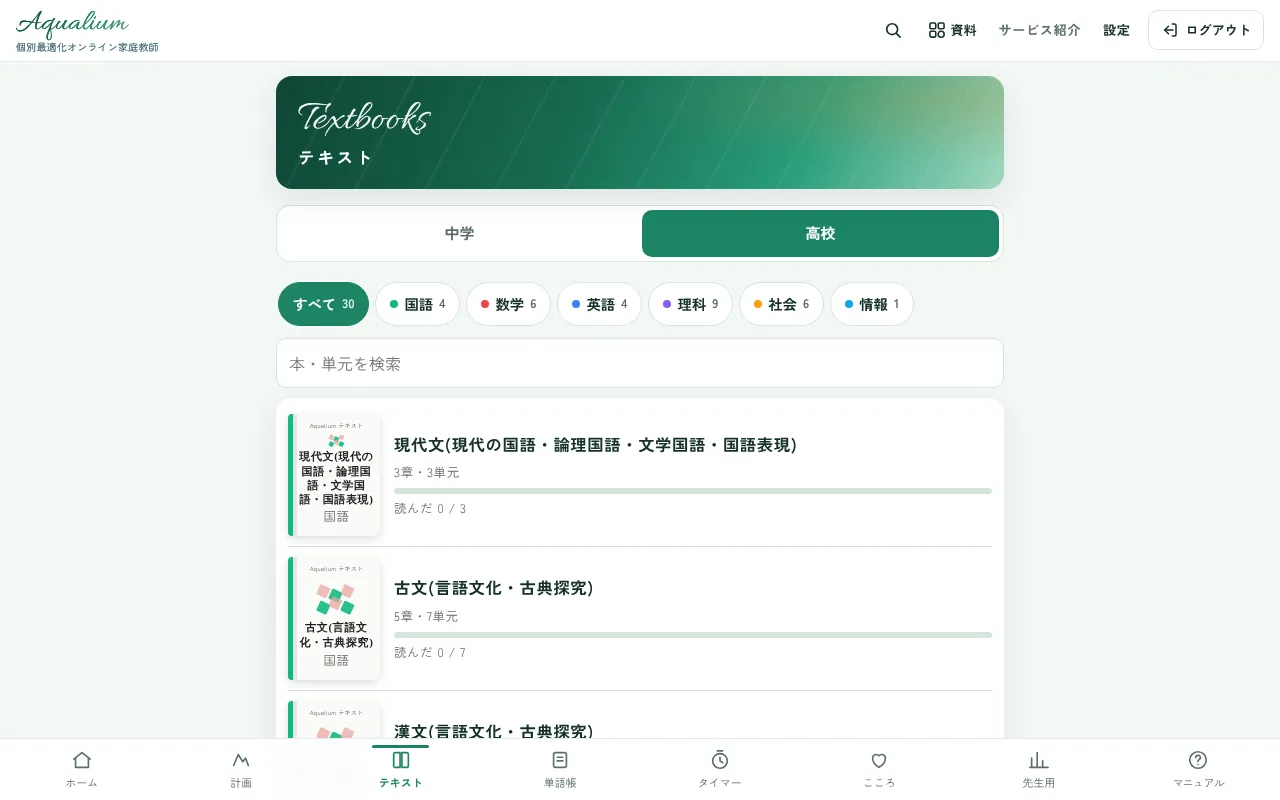
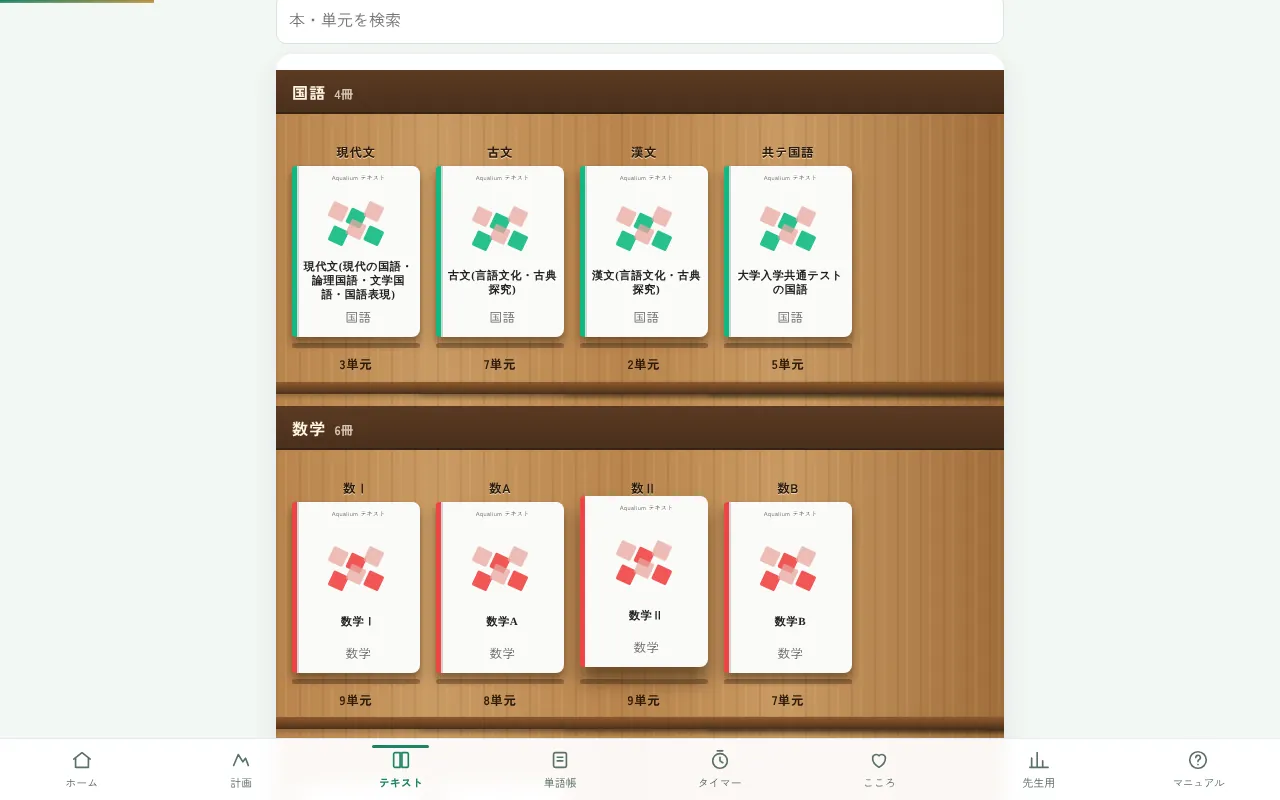
ホームページ:テキストと単語帳のハイライト写真を、木の本棚のデザインで撮り直し
Claude-Session: https://claude.ai/code/session_01LBACWHU1zm5FViu8vPc4HC

diff --git a/home.html b/home.html
@@ -160,13 +160,13 @@
     <li><em>一問一答</em><p><b>344</b><span>問</span></p><small>日本史147問・<br>世界史197問</small></li>
     <li><em>論述</em><p><b>48</b><span>題</span></p><small>歴史の論述<br>トレーニング</small></li>
   </ul>
-  <ul class="hl-circles" aria-label="ハイライト"><li><button type="button" class="hlc" data-hl="0" aria-label="ホーム のハイライトを見る(2枚)"><span class="hlc-ring"><img src="img/hl/home1_s.webp?v=20261109" width="160" height="160" alt="Aqualium アプリの「ホーム」画面" loading="lazy"></span><b>ホーム</b></button></li><li><button type="button" class="hlc" data-hl="1" aria-label="分析 のハイライトを見る(3枚)"><span class="hlc-ring"><img src="img/hl/ana1_s.webp?v=20261109" width="160" height="160" alt="Aqualium アプリの「分析」画面" loading="lazy"></span><b>分析</b></button></li><li><button type="button" class="hlc" data-hl="2" aria-label="テキスト のハイライトを見る(4枚)"><span class="hlc-ring"><img src="img/hl/txt3_s.webp?v=20261109" width="160" height="160" alt="Aqualium アプリの「テキスト」画面" loading="lazy"></span><b>テキスト</b></button></li><li><button type="button" class="hlc" data-hl="3" aria-label="歴史の図解 のハイライトを見る(3枚)"><span class="hlc-ring"><img src="img/hl/zk1_s.webp?v=20261109" width="160" height="160" alt="Aqualium アプリの「歴史の図解」画面" loading="lazy"></span><b>歴史の図解</b></button></li><li><button type="button" class="hlc" data-hl="4" aria-label="解説・資料 のハイライトを見る(3枚)"><span class="hlc-ring"><img src="img/hl/kit1_s.webp?v=20261109" width="160" height="160" alt="Aqualium アプリの「解説・資料」画面" loading="lazy"></span><b>解説・資料</b></button></li><li><button type="button" class="hlc" data-hl="5" aria-label="計画 のハイライトを見る(3枚)"><span class="hlc-ring"><img src="img/hl/plan1_s.webp?v=20261109" width="160" height="160" alt="Aqualium アプリの「計画」画面" loading="lazy"></span><b>計画</b></button></li><li><button type="button" class="hlc" data-hl="6" aria-label="単語帳 のハイライトを見る(3枚)"><span class="hlc-ring"><img src="img/hl/voc1_s.webp?v=20261109c" width="160" height="160" alt="Aqualium アプリの「単語帳」画面" loading="lazy"></span><b>単語帳</b></button></li><li><button type="button" class="hlc" data-hl="7" aria-label="日本史・世界史 のハイライトを見る(2枚)"><span class="hlc-ring"><img src="img/hl/his1_s.webp?v=20261109" width="160" height="160" alt="Aqualium アプリの「日本史・世界史」画面" loading="lazy"></span><b>日本史・世界史</b></button></li><li><button type="button" class="hlc" data-hl="8" aria-label="模試モード のハイライトを見る(1枚)"><span class="hlc-ring"><img src="img/hl/mock1_s.webp?v=20261109" width="160" height="160" alt="Aqualium アプリの「模試モード」画面" loading="lazy"></span><b>模試モード</b></button></li><li><button type="button" class="hlc" data-hl="9" aria-label="先生・保護者 のハイライトを見る(2枚)"><span class="hlc-ring"><img src="img/hl/tut1_s.webp?v=20261109" width="160" height="160" alt="Aqualium アプリの「先生・保護者」画面" loading="lazy"></span><b>先生・保護者</b></button></li></ul>
-  <ul class="hl-list fade"><li><button type="button" class="hl-item" data-hl="0"><img class="hl-item-img" src="img/hl/home1_s.webp?v=20261109" width="160" height="160" alt="Aqualium アプリの「ホーム」画面" loading="lazy"><span class="hl-item-n">01</span><b>ホーム</b><small>いま一番効果の高い学習を、アプリが1つだけ示します。迷ったら、ここを押すだけ。</small><em>2枚の画面を見る ▶</em></button></li><li><button type="button" class="hl-item" data-hl="1"><img class="hl-item-img" src="img/hl/ana1_s.webp?v=20261109" width="160" height="160" alt="Aqualium アプリの「分析」画面" loading="lazy"><span class="hl-item-n">02</span><b>分析</b><small>現代文・古文・漢文、日本史・世界史…。科目ごとの正答率をレーダーチャートで。1か月前の自分とも比べられます。</small><em>3枚の画面を見る ▶</em></button></li><li><button type="button" class="hl-item" data-hl="2"><img class="hl-item-img" src="img/hl/txt3_s.webp?v=20261109" width="160" height="160" alt="Aqualium アプリの「テキスト」画面" loading="lazy"><span class="hl-item-n">03</span><b>テキスト</b><small>中学から高校まで、科目ごとの教科書が本棚に並びます。全286単元に、知識ゼロから読める解説。</small><em>4枚の画面を見る ▶</em></button></li><li><button type="button" class="hl-item" data-hl="3"><img class="hl-item-img" src="img/hl/zk1_s.webp?v=20261109" width="160" height="160" alt="Aqualium アプリの「歴史の図解」画面" loading="lazy"><span class="hl-item-n">04</span><b>歴史の図解</b><small>地域ごとの流れと、世界全体をまきこむ大事件を、色ブロックで1枚に。</small><em>3枚の画面を見る ▶</em></button></li><li><button type="button" class="hl-item" data-hl="4"><img class="hl-item-img" src="img/hl/kit1_s.webp?v=20261109" width="160" height="160" alt="Aqualium アプリの「解説・資料」画面" loading="lazy"><span class="hl-item-n">05</span><b>解説・資料</b><small>答えのあとに「ほかの意味」やくわしい解説。元素の周期表と世界地図も、どのページからでも開けます。</small><em>3枚の画面を見る ▶</em></button></li><li><button type="button" class="hl-item" data-hl="5"><img class="hl-item-img" src="img/hl/plan1_s.webp?v=20261109" width="160" height="160" alt="Aqualium アプリの「計画」画面" loading="lazy"><span class="hl-item-n">06</span><b>計画</b><small>志望校と受験日から、残り日数と目標を自動で設定します。</small><em>3枚の画面を見る ▶</em></button></li><li><button type="button" class="hl-item" data-hl="6"><img class="hl-item-img" src="img/hl/voc1_s.webp?v=20261109c" width="160" height="160" alt="Aqualium アプリの「単語帳」画面" loading="lazy"><span class="hl-item-n">07</span><b>単語帳</b><small>中学英単語・Base・Plus・英熟語・早慶上理(学部別)・古文単語。苦手だけを集めた「覚える単語帳」も作れます。</small><em>3枚の画面を見る ▶</em></button></li><li><button type="button" class="hl-item" data-hl="7"><img class="hl-item-img" src="img/hl/his1_s.webp?v=20261109" width="160" height="160" alt="Aqualium アプリの「日本史・世界史」画面" loading="lazy"><span class="hl-item-n">08</span><b>日本史・世界史</b><small>時代(ヨコ)と分野(タテ)で範囲をしぼって出題。苦手な問題の聞き流しもできます。</small><em>2枚の画面を見る ▶</em></button></li><li><button type="button" class="hl-item" data-hl="8"><img class="hl-item-img" src="img/hl/mock1_s.webp?v=20261109" width="160" height="160" alt="Aqualium アプリの「模試モード」画面" loading="lazy"><span class="hl-item-n">09</span><b>模試モード</b><small>時間を計って解き、最後にまとめて採点。科目別の得点率と時間配分を分析します。</small><em>1枚の画面を見る ▶</em></button></li><li><button type="button" class="hl-item" data-hl="9"><img class="hl-item-img" src="img/hl/tut1_s.webp?v=20261109" width="160" height="160" alt="Aqualium アプリの「先生・保護者」画面" loading="lazy"><span class="hl-item-n">10</span><b>先生・保護者</b><small>苦手の原因・ミスの傾向・週のまとめを1枚に。授業や面談でそのまま使えます。</small><em>2枚の画面を見る ▶</em></button></li></ul>
+  <ul class="hl-circles" aria-label="ハイライト"><li><button type="button" class="hlc" data-hl="0" aria-label="ホーム のハイライトを見る(2枚)"><span class="hlc-ring"><img src="img/hl/home1_s.webp?v=20261109" width="160" height="160" alt="Aqualium アプリの「ホーム」画面" loading="lazy"></span><b>ホーム</b></button></li><li><button type="button" class="hlc" data-hl="1" aria-label="分析 のハイライトを見る(3枚)"><span class="hlc-ring"><img src="img/hl/ana1_s.webp?v=20261109" width="160" height="160" alt="Aqualium アプリの「分析」画面" loading="lazy"></span><b>分析</b></button></li><li><button type="button" class="hlc" data-hl="2" aria-label="テキスト のハイライトを見る(4枚)"><span class="hlc-ring"><img src="img/hl/txt3_s.webp?v=20261109" width="160" height="160" alt="Aqualium アプリの「テキスト」画面" loading="lazy"></span><b>テキスト</b></button></li><li><button type="button" class="hlc" data-hl="3" aria-label="歴史の図解 のハイライトを見る(3枚)"><span class="hlc-ring"><img src="img/hl/zk1_s.webp?v=20261109" width="160" height="160" alt="Aqualium アプリの「歴史の図解」画面" loading="lazy"></span><b>歴史の図解</b></button></li><li><button type="button" class="hlc" data-hl="4" aria-label="解説・資料 のハイライトを見る(3枚)"><span class="hlc-ring"><img src="img/hl/kit1_s.webp?v=20261109" width="160" height="160" alt="Aqualium アプリの「解説・資料」画面" loading="lazy"></span><b>解説・資料</b></button></li><li><button type="button" class="hlc" data-hl="5" aria-label="計画 のハイライトを見る(3枚)"><span class="hlc-ring"><img src="img/hl/plan1_s.webp?v=20261109" width="160" height="160" alt="Aqualium アプリの「計画」画面" loading="lazy"></span><b>計画</b></button></li><li><button type="button" class="hlc" data-hl="6" aria-label="単語帳 のハイライトを見る(3枚)"><span class="hlc-ring"><img src="img/hl/voc1_s.webp?v=20261109d" width="160" height="160" alt="Aqualium アプリの「単語帳」画面" loading="lazy"></span><b>単語帳</b></button></li><li><button type="button" class="hlc" data-hl="7" aria-label="日本史・世界史 のハイライトを見る(2枚)"><span class="hlc-ring"><img src="img/hl/his1_s.webp?v=20261109" width="160" height="160" alt="Aqualium アプリの「日本史・世界史」画面" loading="lazy"></span><b>日本史・世界史</b></button></li><li><button type="button" class="hlc" data-hl="8" aria-label="模試モード のハイライトを見る(1枚)"><span class="hlc-ring"><img src="img/hl/mock1_s.webp?v=20261109" width="160" height="160" alt="Aqualium アプリの「模試モード」画面" loading="lazy"></span><b>模試モード</b></button></li><li><button type="button" class="hlc" data-hl="9" aria-label="先生・保護者 のハイライトを見る(2枚)"><span class="hlc-ring"><img src="img/hl/tut1_s.webp?v=20261109" width="160" height="160" alt="Aqualium アプリの「先生・保護者」画面" loading="lazy"></span><b>先生・保護者</b></button></li></ul>
+  <ul class="hl-list fade"><li><button type="button" class="hl-item" data-hl="0"><img class="hl-item-img" src="img/hl/home1_s.webp?v=20261109" width="160" height="160" alt="Aqualium アプリの「ホーム」画面" loading="lazy"><span class="hl-item-n">01</span><b>ホーム</b><small>いま一番効果の高い学習を、アプリが1つだけ示します。迷ったら、ここを押すだけ。</small><em>2枚の画面を見る ▶</em></button></li><li><button type="button" class="hl-item" data-hl="1"><img class="hl-item-img" src="img/hl/ana1_s.webp?v=20261109" width="160" height="160" alt="Aqualium アプリの「分析」画面" loading="lazy"><span class="hl-item-n">02</span><b>分析</b><small>現代文・古文・漢文、日本史・世界史…。科目ごとの正答率をレーダーチャートで。1か月前の自分とも比べられます。</small><em>3枚の画面を見る ▶</em></button></li><li><button type="button" class="hl-item" data-hl="2"><img class="hl-item-img" src="img/hl/txt3_s.webp?v=20261109" width="160" height="160" alt="Aqualium アプリの「テキスト」画面" loading="lazy"><span class="hl-item-n">03</span><b>テキスト</b><small>中学から高校まで、科目ごとの教科書が本棚に並びます。全286単元に、知識ゼロから読める解説。</small><em>4枚の画面を見る ▶</em></button></li><li><button type="button" class="hl-item" data-hl="3"><img class="hl-item-img" src="img/hl/zk1_s.webp?v=20261109" width="160" height="160" alt="Aqualium アプリの「歴史の図解」画面" loading="lazy"><span class="hl-item-n">04</span><b>歴史の図解</b><small>地域ごとの流れと、世界全体をまきこむ大事件を、色ブロックで1枚に。</small><em>3枚の画面を見る ▶</em></button></li><li><button type="button" class="hl-item" data-hl="4"><img class="hl-item-img" src="img/hl/kit1_s.webp?v=20261109" width="160" height="160" alt="Aqualium アプリの「解説・資料」画面" loading="lazy"><span class="hl-item-n">05</span><b>解説・資料</b><small>答えのあとに「ほかの意味」やくわしい解説。元素の周期表と世界地図も、どのページからでも開けます。</small><em>3枚の画面を見る ▶</em></button></li><li><button type="button" class="hl-item" data-hl="5"><img class="hl-item-img" src="img/hl/plan1_s.webp?v=20261109" width="160" height="160" alt="Aqualium アプリの「計画」画面" loading="lazy"><span class="hl-item-n">06</span><b>計画</b><small>志望校と受験日から、残り日数と目標を自動で設定します。</small><em>3枚の画面を見る ▶</em></button></li><li><button type="button" class="hl-item" data-hl="6"><img class="hl-item-img" src="img/hl/voc1_s.webp?v=20261109d" width="160" height="160" alt="Aqualium アプリの「単語帳」画面" loading="lazy"><span class="hl-item-n">07</span><b>単語帳</b><small>中学英単語・Base・Plus・英熟語・早慶上理(学部別)・古文単語。苦手だけを集めた「覚える単語帳」も作れます。</small><em>3枚の画面を見る ▶</em></button></li><li><button type="button" class="hl-item" data-hl="7"><img class="hl-item-img" src="img/hl/his1_s.webp?v=20261109" width="160" height="160" alt="Aqualium アプリの「日本史・世界史」画面" loading="lazy"><span class="hl-item-n">08</span><b>日本史・世界史</b><small>時代(ヨコ)と分野(タテ)で範囲をしぼって出題。苦手な問題の聞き流しもできます。</small><em>2枚の画面を見る ▶</em></button></li><li><button type="button" class="hl-item" data-hl="8"><img class="hl-item-img" src="img/hl/mock1_s.webp?v=20261109" width="160" height="160" alt="Aqualium アプリの「模試モード」画面" loading="lazy"><span class="hl-item-n">09</span><b>模試モード</b><small>時間を計って解き、最後にまとめて採点。科目別の得点率と時間配分を分析します。</small><em>1枚の画面を見る ▶</em></button></li><li><button type="button" class="hl-item" data-hl="9"><img class="hl-item-img" src="img/hl/tut1_s.webp?v=20261109" width="160" height="160" alt="Aqualium アプリの「先生・保護者」画面" loading="lazy"><span class="hl-item-n">10</span><b>先生・保護者</b><small>苦手の原因・ミスの傾向・週のまとめを1枚に。授業や面談でそのまま使えます。</small><em>2枚の画面を見る ▶</em></button></li></ul>
   <div class="hl-cta fade">
     <p>気になる機能は見つかりましたか?<br>まずは無料体験で、<br class="sp">実際に使ってみてください。</p>
     <a href="#contact" class="btn btn-primary">無料体験を申し込む</a>
   </div>
-  <script type="application/json" id="hlData">[{"id": "home", "name": "ホーム", "slides": [{"img": "img/hl/home1.webp?v=20261109", "t": "次の一手", "d": "いま一番効果の高い学習を、アプリが1つだけ示します。迷ったら、ここを押すだけ。"}, {"img": "img/hl/home3.webp?v=20261109", "t": "診断・練習", "d": "ホームの上のタブで切りかえ。診断テストで、中学の単元までさかのぼって苦手の原因を探します。"}]}, {"id": "ana", "name": "分析", "slides": [{"img": "img/hl/ana1.webp?v=20261109", "t": "科目バランス", "d": "現代文・古文・漢文、日本史・世界史…。科目ごとの正答率をレーダーチャートで。1か月前の自分とも比べられます。"}, {"img": "img/hl/ana2.webp?v=20261109", "t": "ミスの原因", "d": "「ケアレスミス」「覚えていなかった」など、まちがえた理由を集計。いちばん多い原因と対策がわかります。"}, {"img": "img/hl/ana3.webp?v=20261109", "t": "今週のまとめ", "d": "学習日数・時間・解いた問題・正答率を、先週と比べて表示。伸びたところがひと目でわかります。"}]}, {"id": "txt", "name": "テキスト", "slides": [{"img": "img/hl/txt1.webp?v=20261109", "t": "科目ごとの本棚", "d": "中学から高校まで、科目ごとの教科書が本棚に並びます。続きからすぐ読めます。"}, {"img": "img/hl/txt2.webp?v=20261109", "t": "目次", "d": "章と単元の一覧。読んだ単元・しおり・苦手な単元に印がつきます。"}, {"img": "img/hl/txt3.webp?v=20261109", "t": "知識ゼロから読める本文", "d": "「できるようになること → イメージ → 説明」の順。全286単元に解説があります。"}, {"img": "img/hl/txt4.webp?v=20261109", "t": "黒板の例題", "d": "考え方を1手順ずつ。読み終えたら、そのまま確認問題を解けます。"}]}, {"id": "zk", "name": "歴史の図解", "slides": [{"img": "img/hl/zk1.webp?v=20261109", "t": "世界史の流れ", "d": "地域ごとの流れと、世界全体をまきこむ大事件を、色ブロックで1枚に。"}, {"img": "img/hl/zk2.webp?v=20261109", "t": "模式地図", "d": "清の直轄領・藩部・朝貢国などを、位置関係で整理します。"}, {"img": "img/hl/zk3.webp?v=20261109", "t": "因果の鎖", "d": "背景 → できごと → 結果 → その後。なぜ起きて、どうなったかがつながります。"}]}, {"id": "kit", "name": "解説・資料", "slides": [{"img": "img/hl/kit1.webp?v=20261109", "t": "もっと知る", "d": "答えたあとに、くわしい解説と、語句の「ほかの意味」・使い方を表示。1語から何倍も学べます。"}, {"img": "img/hl/kit2.webp?v=20261109", "t": "元素の周期表", "d": "どのページを開いていても、すぐに呼び出せます。元素を押すと、原子量・分類・常温での状態まで。"}, {"img": "img/hl/kit3.webp?v=20261109", "t": "国名入りの世界地図", "d": "日本中心の地図に、国名と主な都市(首都など約100)。指で拡大・移動でき、国名で探すとその国まで移動します。最小化して勉強と並べて使えます。"}]}, {"id": "plan", "name": "計画", "slides": [{"img": "img/hl/plan1.webp?v=20261109", "t": "逆算ロードマップ", "d": "志望校と受験日から、残り日数と目標を自動で設定します。"}, {"img": "img/hl/plan2.webp?v=20261109", "t": "受験日までのタイムライン", "d": "単元・英単語・古文単語・一問一答の進め方を、1本の線で見渡せます。"}, {"img": "img/hl/plan3.webp?v=20261109", "t": "単元マップ", "d": "全単元の定着度を色で表示。忘れかけている単元もすぐ見つかります。"}]}, {"id": "voc", "name": "単語帳", "slides": [{"img": "img/hl/voc1.webp?v=20261109c", "t": "単語帳を選ぶ", "d": "中学英単語・Base・Plus・英熟語・早慶上理(学部別)・古文単語。苦手だけを集めた「覚える単語帳」も作れます。"}, {"img": "img/hl/voc2.webp?v=20261109c", "t": "学び方を選ぶ", "d": "赤シート・苦手選別・聞き流し・スワイプなど、気分や場所に合わせて選べます。"}, {"img": "img/hl/voc3.webp?v=20261109c", "t": "4択テスト", "d": "テンポよく答えて、まちがえた語は自動で復習に回ります。"}]}, {"id": "his", "name": "日本史・世界史", "slides": [{"img": "img/hl/his1.webp?v=20261109", "t": "一問一答", "d": "時代(ヨコ)と分野(タテ)で範囲をしぼって出題。苦手な問題の聞き流しもできます。"}, {"img": "img/hl/his2.webp?v=20261109", "t": "論述トレーニング", "d": "答えを考えてから、模範解答のキーワードで自己採点します。"}]}, {"id": "mock", "name": "模試モード", "slides": [{"img": "img/hl/mock1.webp?v=20261109", "t": "本番形式の模試", "d": "時間を計って解き、最後にまとめて採点。科目別の得点率と時間配分を分析します。"}]}, {"id": "tut", "name": "先生・保護者", "slides": [{"img": "img/hl/tut1.webp?v=20261109", "t": "指導分析レポート", "d": "苦手の原因・ミスの傾向・週のまとめを1枚に。授業や面談でそのまま使えます。"}, {"img": "img/hl/tut2.webp?v=20261109", "t": "学習の記録", "d": "日別の解答数や科目バランスを、先生・保護者と共有できます。"}]}]</script>
+  <script type="application/json" id="hlData">[{"id": "home", "name": "ホーム", "slides": [{"img": "img/hl/home1.webp?v=20261109", "t": "次の一手", "d": "いま一番効果の高い学習を、アプリが1つだけ示します。迷ったら、ここを押すだけ。"}, {"img": "img/hl/home3.webp?v=20261109", "t": "診断・練習", "d": "ホームの上のタブで切りかえ。診断テストで、中学の単元までさかのぼって苦手の原因を探します。"}]}, {"id": "ana", "name": "分析", "slides": [{"img": "img/hl/ana1.webp?v=20261109", "t": "科目バランス", "d": "現代文・古文・漢文、日本史・世界史…。科目ごとの正答率をレーダーチャートで。1か月前の自分とも比べられます。"}, {"img": "img/hl/ana2.webp?v=20261109", "t": "ミスの原因", "d": "「ケアレスミス」「覚えていなかった」など、まちがえた理由を集計。いちばん多い原因と対策がわかります。"}, {"img": "img/hl/ana3.webp?v=20261109", "t": "今週のまとめ", "d": "学習日数・時間・解いた問題・正答率を、先週と比べて表示。伸びたところがひと目でわかります。"}]}, {"id": "txt", "name": "テキスト", "slides": [{"img": "img/hl/txt1.webp?v=20261109d", "t": "科目ごとの本棚", "d": "中学から高校まで、科目ごとの教科書が本棚に並びます。続きからすぐ読めます。"}, {"img": "img/hl/txt2.webp?v=20261109", "t": "目次", "d": "章と単元の一覧。読んだ単元・しおり・苦手な単元に印がつきます。"}, {"img": "img/hl/txt3.webp?v=20261109", "t": "知識ゼロから読める本文", "d": "「できるようになること → イメージ → 説明」の順。全286単元に解説があります。"}, {"img": "img/hl/txt4.webp?v=20261109", "t": "黒板の例題", "d": "考え方を1手順ずつ。読み終えたら、そのまま確認問題を解けます。"}]}, {"id": "zk", "name": "歴史の図解", "slides": [{"img": "img/hl/zk1.webp?v=20261109", "t": "世界史の流れ", "d": "地域ごとの流れと、世界全体をまきこむ大事件を、色ブロックで1枚に。"}, {"img": "img/hl/zk2.webp?v=20261109", "t": "模式地図", "d": "清の直轄領・藩部・朝貢国などを、位置関係で整理します。"}, {"img": "img/hl/zk3.webp?v=20261109", "t": "因果の鎖", "d": "背景 → できごと → 結果 → その後。なぜ起きて、どうなったかがつながります。"}]}, {"id": "kit", "name": "解説・資料", "slides": [{"img": "img/hl/kit1.webp?v=20261109", "t": "もっと知る", "d": "答えたあとに、くわしい解説と、語句の「ほかの意味」・使い方を表示。1語から何倍も学べます。"}, {"img": "img/hl/kit2.webp?v=20261109", "t": "元素の周期表", "d": "どのページを開いていても、すぐに呼び出せます。元素を押すと、原子量・分類・常温での状態まで。"}, {"img": "img/hl/kit3.webp?v=20261109", "t": "国名入りの世界地図", "d": "日本中心の地図に、国名と主な都市(首都など約100)。指で拡大・移動でき、国名で探すとその国まで移動します。最小化して勉強と並べて使えます。"}]}, {"id": "plan", "name": "計画", "slides": [{"img": "img/hl/plan1.webp?v=20261109", "t": "逆算ロードマップ", "d": "志望校と受験日から、残り日数と目標を自動で設定します。"}, {"img": "img/hl/plan2.webp?v=20261109", "t": "受験日までのタイムライン", "d": "単元・英単語・古文単語・一問一答の進め方を、1本の線で見渡せます。"}, {"img": "img/hl/plan3.webp?v=20261109", "t": "単元マップ", "d": "全単元の定着度を色で表示。忘れかけている単元もすぐ見つかります。"}]}, {"id": "voc", "name": "単語帳", "slides": [{"img": "img/hl/voc1.webp?v=20261109d", "t": "単語帳を選ぶ", "d": "中学英単語・Base・Plus・英熟語・早慶上理(学部別)・古文単語。苦手だけを集めた「覚える単語帳」も作れます。"}, {"img": "img/hl/voc2.webp?v=20261109c", "t": "学び方を選ぶ", "d": "赤シート・苦手選別・聞き流し・スワイプなど、気分や場所に合わせて選べます。"}, {"img": "img/hl/voc3.webp?v=20261109c", "t": "4択テスト", "d": "テンポよく答えて、まちがえた語は自動で復習に回ります。"}]}, {"id": "his", "name": "日本史・世界史", "slides": [{"img": "img/hl/his1.webp?v=20261109", "t": "一問一答", "d": "時代(ヨコ)と分野(タテ)で範囲をしぼって出題。苦手な問題の聞き流しもできます。"}, {"img": "img/hl/his2.webp?v=20261109", "t": "論述トレーニング", "d": "答えを考えてから、模範解答のキーワードで自己採点します。"}]}, {"id": "mock", "name": "模試モード", "slides": [{"img": "img/hl/mock1.webp?v=20261109", "t": "本番形式の模試", "d": "時間を計って解き、最後にまとめて採点。科目別の得点率と時間配分を分析します。"}]}, {"id": "tut", "name": "先生・保護者", "slides": [{"img": "img/hl/tut1.webp?v=20261109", "t": "指導分析レポート", "d": "苦手の原因・ミスの傾向・週のまとめを1枚に。授業や面談でそのまま使えます。"}, {"img": "img/hl/tut2.webp?v=20261109", "t": "学習の記録", "d": "日別の解答数や科目バランスを、先生・保護者と共有できます。"}]}]</script>
 </section>
 
 <!-- ========== Point ========== -->

diff --git a/sw.js b/sw.js
@@ -4,7 +4,7 @@
  *  ・対応ブラウザでは、アプリを閉じていても1時間ごとに連続記録をチェックし、
  *    学習がまだなら通知します(Periodic Background Sync)。
  */
-var CACHE = 'wps-v253';
+var CACHE = 'wps-v254';
 var FILES = [
   './', './index.html', './manual.html', './home.html', './css/style.css', './css/home.css', './js/home.js',
   './js/data/units.js', './js/data/units_extra.js', './js/data/units_more.js', './js/data/units_math.js', './js/data/units_extra2.js', './js/data/units_extra3.js', './js/data/units_adv.js', './js/data/units_hard.js', './js/data/banks_lang.js', './js/data/banks_sci_soc.js', './js/data/banks_more.js', './js/data/vocab_jh.js', './js/data/vocab_idiom.js', './js/data/vocab_idiom2.js', './js/data/vocab_sci.js', './js/data/vocab_merge.js', './js/data/vocab_kobun.js', './js/data/vocab_books.js', './js/data/emoji.js', './js/data/history_ctx.js',
